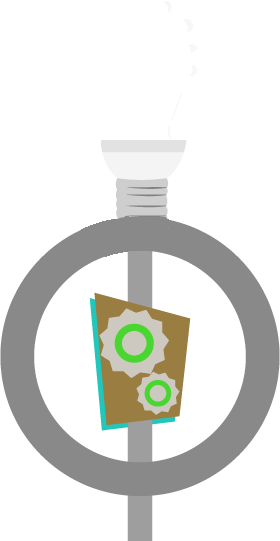
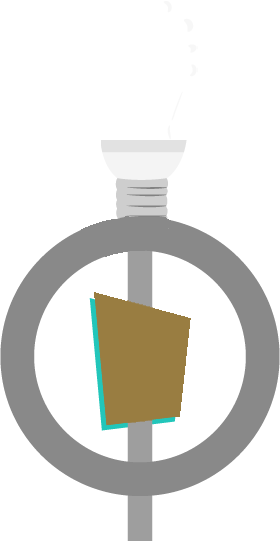
title turn, dam grate, and clips behind crank

Changed region(s): [[0.3429, 0.5619, 0.6571, 0.7689]]

diff --git a/title/drawing.js b/title/drawing.js
@@ -179,8 +179,137 @@ define(function(){
 		
 	}
 	
+    function titleSGear(ctx, x, y, angle) {
+
+        // titleSGear/Path
+        ctx.save();
+        
+        ctx.translate(x, y);
+        
+        var mx = 530;
+        var my = 532;
+        ctx.translate(mx, my);
+        ctx.rotate(angle);
+        ctx.translate(-mx, -my);
+        
+        ctx.beginPath();
+        ctx.moveTo(551.3, 528.6);
+        ctx.lineTo(547.8, 534.0);
+        ctx.lineTo(548.7, 540.5);
+        ctx.lineTo(542.8, 543.2);
+        ctx.lineTo(540.0, 549.1);
+        ctx.lineTo(533.6, 548.2);
+        ctx.lineTo(528.1, 551.7);
+        ctx.lineTo(523.2, 547.4);
+        ctx.lineTo(516.7, 547.4);
+        ctx.lineTo(514.9, 541.2);
+        ctx.lineTo(509.4, 537.6);
+        ctx.lineTo(511.2, 531.4);
+        ctx.lineTo(508.6, 525.5);
+        ctx.lineTo(513.5, 521.2);
+        ctx.lineTo(514.4, 514.8);
+        ctx.lineTo(520.8, 513.8);
+        ctx.lineTo(525.1, 508.9);
+        ctx.lineTo(531.0, 511.6);
+        ctx.lineTo(537.3, 509.8);
+        ctx.lineTo(540.8, 515.3);
+        ctx.lineTo(547.0, 517.1);
+        ctx.lineTo(547.0, 523.6);
+        ctx.lineTo(551.3, 528.6);
+        ctx.closePath();
+        ctx.fillStyle = "rgb(205, 200, 191)";
+        ctx.fill();
+
+        // titleSGear/Compound Path
+        ctx.beginPath();
+
+        // titleSGear/Compound Path/Path
+        ctx.moveTo(529.9, 517.1);
+        ctx.bezierCurveTo(522.6, 517.1, 516.7, 523.0, 516.7, 530.3);
+        ctx.bezierCurveTo(516.7, 537.6, 522.6, 543.5, 529.9, 543.5);
+        ctx.bezierCurveTo(537.2, 543.5, 543.1, 537.6, 543.1, 530.3);
+        ctx.bezierCurveTo(543.1, 523.0, 537.2, 517.1, 529.9, 517.1);
+        ctx.closePath();
+
+        // titleSGear/Compound Path/Path
+        ctx.moveTo(529.9, 538.7);
+        ctx.bezierCurveTo(525.3, 538.7, 521.5, 535.0, 521.5, 530.3);
+        ctx.bezierCurveTo(521.5, 525.6, 525.3, 521.9, 529.9, 521.9);
+        ctx.bezierCurveTo(534.6, 521.9, 538.4, 525.6, 538.4, 530.3);
+        ctx.bezierCurveTo(538.4, 535.0, 534.6, 538.7, 529.9, 538.7);
+        ctx.closePath();
+        ctx.fillStyle = "rgb(72, 213, 47)";
+        ctx.fill();
+        ctx.restore();
+      }
+
+      function titleBGear(ctx, x, y, angle) {
+
+        // titleBGear/Path
+        ctx.save();
+        ctx.translate(x, y);
+        
+        var mx = 505;
+        var my = 481;
+        ctx.translate(mx, my);
+        ctx.rotate(angle);
+        ctx.translate(-mx, -my);
+        
+        ctx.beginPath();
+        ctx.moveTo(540.9, 477.4);
+        ctx.lineTo(535.2, 486.3);
+        ctx.lineTo(536.7, 496.8);
+        ctx.lineTo(527.1, 501.2);
+        ctx.lineTo(522.7, 510.8);
+        ctx.lineTo(512.2, 509.3);
+        ctx.lineTo(503.3, 515.0);
+        ctx.lineTo(495.4, 508.0);
+        ctx.lineTo(484.8, 508.0);
+        ctx.lineTo(481.8, 497.9);
+        ctx.lineTo(472.9, 492.2);
+        ctx.lineTo(475.9, 482.0);
+        ctx.lineTo(471.6, 472.4);
+        ctx.lineTo(479.5, 465.5);
+        ctx.lineTo(481.1, 455.0);
+        ctx.lineTo(491.5, 453.5);
+        ctx.lineTo(498.4, 445.6);
+        ctx.lineTo(508.1, 449.9);
+        ctx.lineTo(518.2, 447.0);
+        ctx.lineTo(523.9, 455.9);
+        ctx.lineTo(534.0, 458.9);
+        ctx.lineTo(534.0, 469.4);
+        ctx.lineTo(540.9, 477.4);
+        ctx.closePath();
+        ctx.fillStyle = "rgb(205, 200, 191)";
+        ctx.fill();
+
+        // titleBGear/Compound Path
+        ctx.beginPath();
+
+        // titleBGear/Compound Path/Path
+        ctx.moveTo(506.2, 460.9);
+        ctx.bezierCurveTo(495.5, 460.9, 486.8, 469.6, 486.8, 480.3);
+        ctx.bezierCurveTo(486.8, 490.9, 495.5, 499.6, 506.2, 499.6);
+        ctx.bezierCurveTo(517.0, 499.6, 525.7, 490.9, 525.7, 480.3);
+        ctx.bezierCurveTo(525.7, 469.6, 517.0, 460.9, 506.2, 460.9);
+        ctx.closePath();
+
+        // titleBGear/Compound Path/Path
+        ctx.moveTo(506.2, 492.6);
+        ctx.bezierCurveTo(499.4, 492.6, 493.8, 487.1, 493.8, 480.3);
+        ctx.bezierCurveTo(493.8, 473.4, 499.4, 467.9, 506.2, 467.9);
+        ctx.bezierCurveTo(513.1, 467.9, 518.7, 473.4, 518.7, 480.3);
+        ctx.bezierCurveTo(518.7, 487.1, 513.1, 492.6, 506.2, 492.6);
+        ctx.closePath();
+        ctx.fillStyle = "rgb(72, 213, 47)";
+        ctx.fill();
+        ctx.restore();
+      }
+      
 	return {
 		titleBG: drawTitleBG,
+		bottomGear: titleSGear,
+		topGear: titleBGear,
 		cloud1: cloud1,
 		cloud2: cloud2,
 		cloud3: cloud3,

diff --git a/house/house.js b/house/house.js
@@ -171,6 +171,11 @@ define('house', ['house/drawing'], function(draw){
         	  draw.sensorMeter(sensorPos);
         	  draw.voltMeter(voltMeterPos);
         	  
+        	  
+        	  
+        	  if(sensorType !== "sensor"){
+        	      draw.volt({x: 783, y: 325, angle: angle })
+        	  }
         	  if(DRAGGING){
         	  	voltMeterPos.perc=Math.max(0, voltMeterPos.perc-1);
         	  }else{
@@ -196,9 +201,13 @@ define('house', ['house/drawing'], function(draw){
         	
         	 drawBlackWire();
         	 ctx.stroke();
-        	
+        	 
+        	 if(cranking || redDone || blackDone){ 
+                 draw.red(redPos);
+                 draw.black(blackPos);
+             }
           
-        
+        	 
            ctx.save();
            ctx.translate(cCrankX, cCrankY);
            ctx.rotate(angle);
@@ -207,9 +216,16 @@ define('house', ['house/drawing'], function(draw){
            crank();
            
            ctx.restore();
-        	draw.red(redPos);
-        	draw.black(blackPos);
-        	
+           
+           if(!cranking){ 
+               if(!redDone){
+                   draw.red(redPos);
+               }
+               if(!blackDone){
+               draw.black(blackPos);
+               }
+           }
+        
         	  drawText();
         	  
         	  if(helpPos<5 && typeof(imgs['houseHelp'+helpPos]) === "object" && typeof(imgs['houseHelp'+helpPos].draw) === "function"){
@@ -234,8 +250,7 @@ define('house', ['house/drawing'], function(draw){
         }
         
         function houseMouseRelease(x, y){
-
-            console.log(x, y);
+            cranking = false; 
             if(helpPos<5){
                 helpPos++;
                 return;

diff --git a/house/drawing.js b/house/drawing.js
@@ -56,7 +56,44 @@ define(function(){
     	 ctx.drawImage(imgs["glowDot"].img, glowDot.x, glowDot.y, glowDot.width, glowDot.height);	
     	 ctx.restore();
     }
+    function volt(voltPos) {
+        ctx.save();
+        ctx.translate(voltPos.x, voltPos.y);
+        
+        var dist = 119;
+        ctx.translate(100-dist, 100-dist);
+        ctx.rotate(voltPos.angle);
+        ctx.translate(-(100-dist), -(100-dist));
+        // volt/Path
+        ctx.beginPath();
+        ctx.moveTo(133.2, 90.8);
+        ctx.bezierCurveTo(133.2, 101.8, 124.3, 110.8, 113.2, 110.8);
+        ctx.bezierCurveTo(102.2, 110.8, 93.2, 101.8, 93.2, 90.8);
+        ctx.bezierCurveTo(93.2, 79.7, 102.2, 70.8, 113.2, 70.8);
+        ctx.bezierCurveTo(124.3, 70.8, 133.2, 79.7, 133.2, 90.8);
+        ctx.closePath();
+        ctx.fillStyle = "rgb(236, 213, 0)";
+        ctx.fill();
+
+        // volt/Group
+
+        // volt/Group/Path
+        ctx.beginPath();
+        ctx.moveTo(113.5, 76.5);
+        ctx.lineTo(113.5, 105.5);
+        ctx.lineWidth = 3.0;
+        ctx.stroke();
+
+        // volt/Group/Path
+        ctx.beginPath();
+        ctx.moveTo(128.0, 91.0);
+        ctx.lineTo(99.0, 91.0);
+        ctx.stroke();
+        ctx.restore();
+      }
+
     return {
+        volt: volt,
         voltMeter: voltMeter,
         sensorMeter: sensorMeter,
         red: red,

diff --git a/title/title.js b/title/title.js
@@ -58,6 +58,9 @@ define("title", ["title/drawing"], function(draw) {
 			var propWidth = 214;
 			ctx.drawImage(imgs["prop"].img, 0, part*pieceHeight, propWidth, pieceHeight, 403, 650, propWidth, pieceHeight);
 			
+			draw.topGear(ctx, 0, 0, angle);
+			draw.bottomGear(ctx, 0, 0, angle*2);
+			
 			titleButton(angle, deltaY);
 			
 		ctx.restore();

diff --git a/crank/crank.js b/crank/crank.js
@@ -47,6 +47,7 @@ function drawCrank(){
         gears2(230, -80, angle);
         gears1(230, -80, angle);
     	
+        
         //draw line
         ctx.save();
         ctx.beginPath();

diff --git a/crank/drawing.js b/crank/drawing.js
@@ -230,6 +230,7 @@
 
         ctx.restore();
     }
-
+	
+  
 	
 	

diff --git a/index.php b/index.php
@@ -57,7 +57,7 @@
 			var BUFFERING = false;
 			//refreshes every 50 milliseconds
 			var FRAMERATE = 50;
-			var DEBUG = false;
+			var DEBUG = true;
 			
 			var ctx;
 			var WIDTH = 1024;
@@ -183,8 +183,8 @@ function init() {
 	coal = require('coal')(ctx);
 	house = require('house')();
 	if(DEBUG){
-      scene = "crank";
-      current = house;
+      scene = "title";
+      current = title;
     }else{
       scene = "title";
       current = title;  
